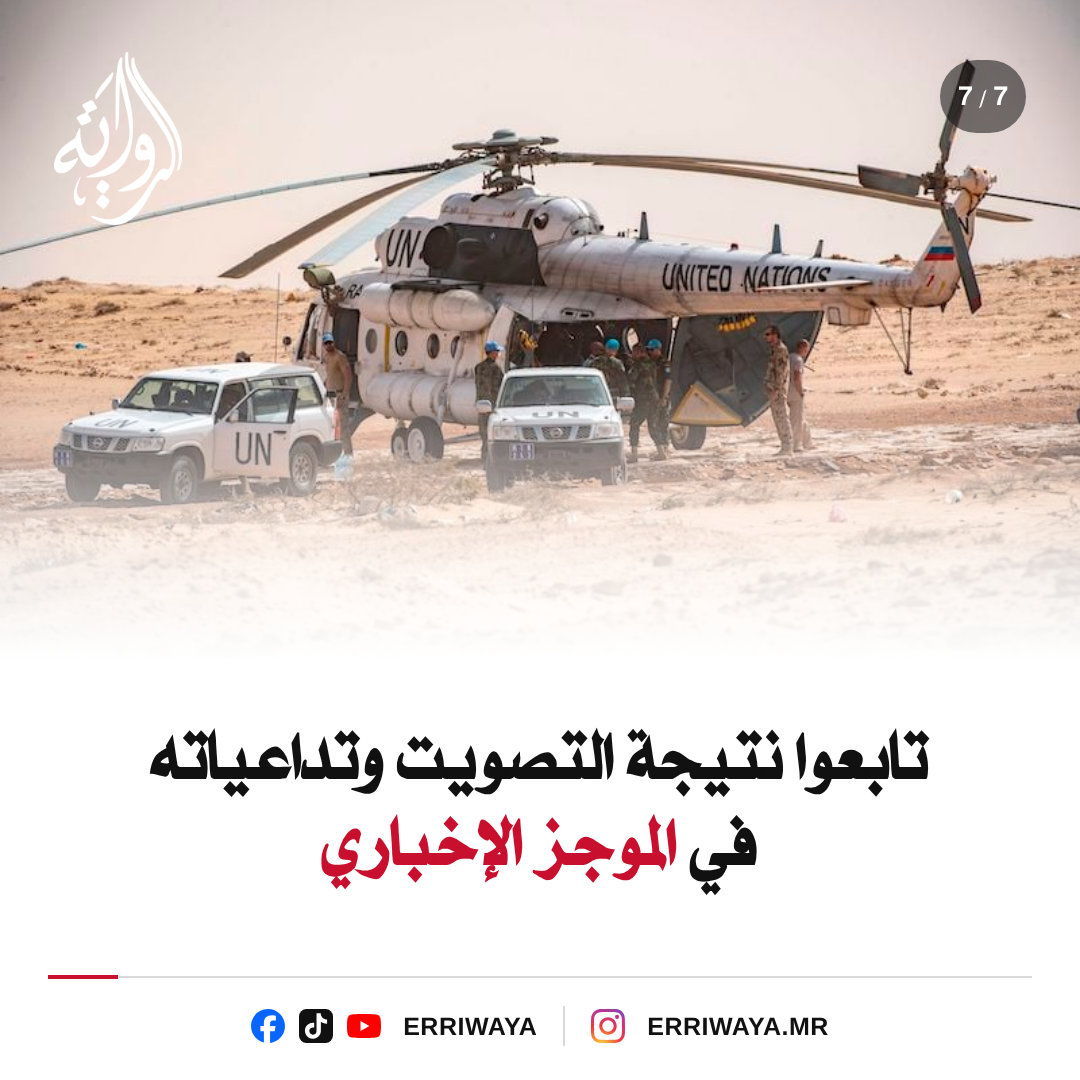
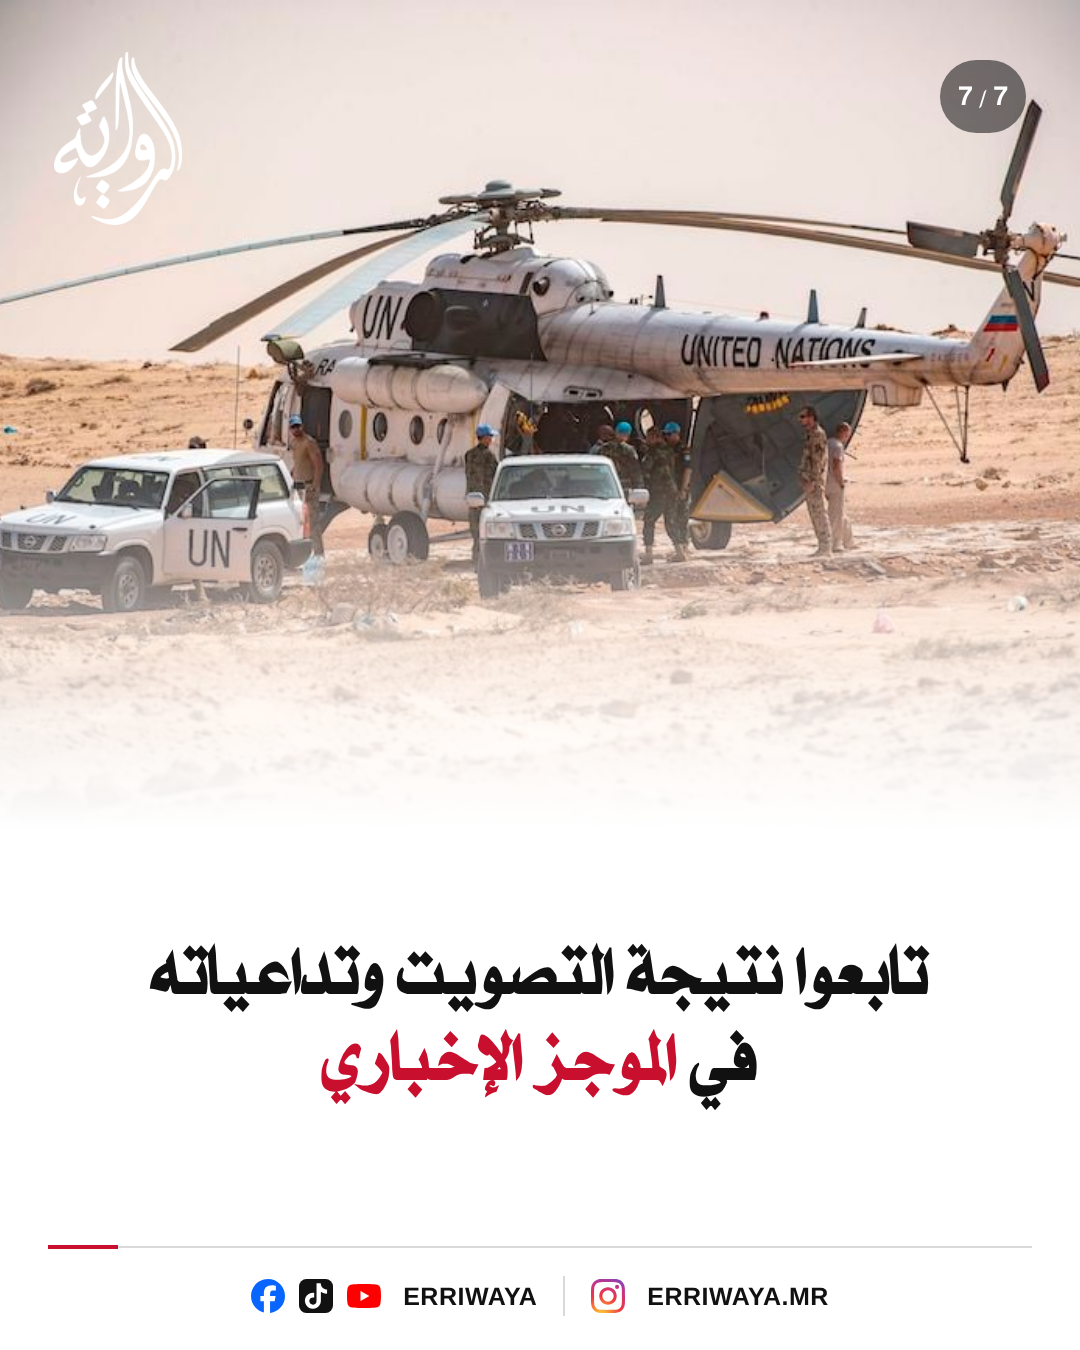
MINURSO carousel: 1080x1350 version of the post template
Claude-Session: https://claude.ai/code/session_01S8ECGBwohQoomeMp3zGTaV

diff --git a/carousels/2026-10-29-minurso/carousel.html b/carousels/2026-10-29-minurso/carousel.html
@@ -9,14 +9,14 @@
   :root { --ink: #111; --body: #2A2F3A; --gray: #6B7280; --rule: #D9D9D9; --red: #C8102E; }
   html, body { margin: 0; background: #DDE2EA; }
   body { font-family: AlQuds, sans-serif; color: var(--ink); }
-  .slide { position: relative; width: 1080px; height: 1080px; background: #fff; overflow: hidden; margin: 0 0 40px; }
+  .slide { position: relative; width: 1080px; height: 1350px; background: #fff; overflow: hidden; margin: 0 0 40px; }
 
-  .photo { position: absolute; top: 0; left: 0; right: 0; height: 660px; display: flex; }
+  .photo { position: absolute; top: 0; left: 0; right: 0; height: 830px; display: flex; }
   .photo img { flex: 1; min-width: 0; height: 100%; object-fit: cover; display: block; }
   .photo img + img { border-right: 6px solid #fff; }
   .photo::after { content: ''; position: absolute; left: 0; right: 0; bottom: 0; height: 46%;
                   background: linear-gradient(180deg, rgba(255,255,255,0), rgba(255,255,255,.85) 70%, #fff); }
-  .short .photo { height: 470px; }
+  .short .photo { height: 610px; }
 
   .logo { position: absolute; top: 52px; left: 54px; width: 128px; height: 173px; background: #fff;
           -webkit-mask: url(../../assets/logo-mark.png) center / contain no-repeat; mask: url(../../assets/logo-mark.png) center / contain no-repeat;
@@ -24,23 +24,23 @@
   .page { position: absolute; top: 60px; right: 54px; direction: ltr; font-size: 26px; color: #fff; background: rgba(17,17,17,.55);
           border-radius: 999px; padding: 6px 18px; }
 
-  .text { position: absolute; left: 70px; right: 70px; top: 640px; bottom: 120px; display: flex; flex-direction: column; justify-content: center; }
-  .short .text { top: 420px; }
+  .text { position: absolute; left: 70px; right: 70px; top: 800px; bottom: 120px; display: flex; flex-direction: column; justify-content: center; }
+  .short .text { top: 560px; }
   h1 { margin: 0; font-size: 66px; line-height: 1.3; text-align: center; font-weight: bold; }
   .short h1 { font-size: 58px; }
   p { margin: 0; }
-  .lead { margin-top: 22px; font-size: 36px; line-height: 1.55; color: var(--body); text-align: center; }
+  .lead { margin-top: 22px; font-size: 38px; line-height: 1.6; color: var(--body); text-align: center; }
   .red { color: var(--red); }
-  ol { margin: 26px 0 0; padding: 0; list-style: none; display: flex; flex-direction: column; gap: 16px; }
-  ol li { display: flex; align-items: center; gap: 20px; font-size: 34px; line-height: 1.4; color: var(--body); }
+  ol { margin: 26px 0 0; padding: 0; list-style: none; display: flex; flex-direction: column; gap: 22px; }
+  ol li { display: flex; align-items: center; gap: 20px; font-size: 36px; line-height: 1.45; color: var(--body); }
   ol li b { flex: none; width: 52px; height: 52px; border-radius: 50%; background: var(--red); color: #fff; font-size: 30px; font-weight: normal;
             display: flex; align-items: center; justify-content: center; line-height: 1; }
   ol li strong { color: var(--ink); }
   .note { margin-top: 18px; font-size: 25px; color: var(--gray); text-align: center; }
 
-  .rule { position: absolute; left: 48px; right: 48px; top: 976px; height: 2px; background: var(--rule); }
+  .rule { position: absolute; left: 48px; right: 48px; bottom: 102px; height: 2px; background: var(--rule); }
   .rule::before { content: ''; position: absolute; left: 0; top: -1px; width: 70px; height: 4px; background: var(--red); }
-  .foot { position: absolute; left: 0; right: 0; top: 1004px; height: 44px; display: flex; justify-content: center; align-items: center; gap: 26px; direction: ltr; }
+  .foot { position: absolute; left: 0; right: 0; bottom: 32px; height: 44px; display: flex; justify-content: center; align-items: center; gap: 26px; direction: ltr; }
   .foot .grp { display: flex; align-items: center; gap: 14px; font-size: 25px; font-weight: bold; font-family: Arial, sans-serif; letter-spacing: .5px; }
   .foot .grp span { margin-left: 8px; }
   .foot .sep { width: 2px; height: 40px; background: var(--rule); }

diff --git a/carousels/2026-10-29-minurso/render.js b/carousels/2026-10-29-minurso/render.js
@@ -1,10 +1,10 @@
-// Renders each .slide of carousel.html to slides/NN.png (1080x1080, Erriwaya post template).
+// Renders each .slide of carousel.html to slides/NN.png (1080x1350, Erriwaya post template).
 const { chromium } = require('playwright');
 const path = require('path'), fs = require('fs');
 (async () => {
   const out = path.join(__dirname, 'slides'); fs.mkdirSync(out, { recursive: true });
   const browser = await chromium.launch({ args: ['--allow-file-access-from-files'] });
-  const page = await browser.newPage({ viewport: { width: 1080, height: 1080 } });
+  const page = await browser.newPage({ viewport: { width: 1080, height: 1350 } });
   await page.goto('file://' + path.join(__dirname, 'carousel.html'));
   await page.evaluate(() => document.fonts.ready);
   await page.waitForTimeout(500);
